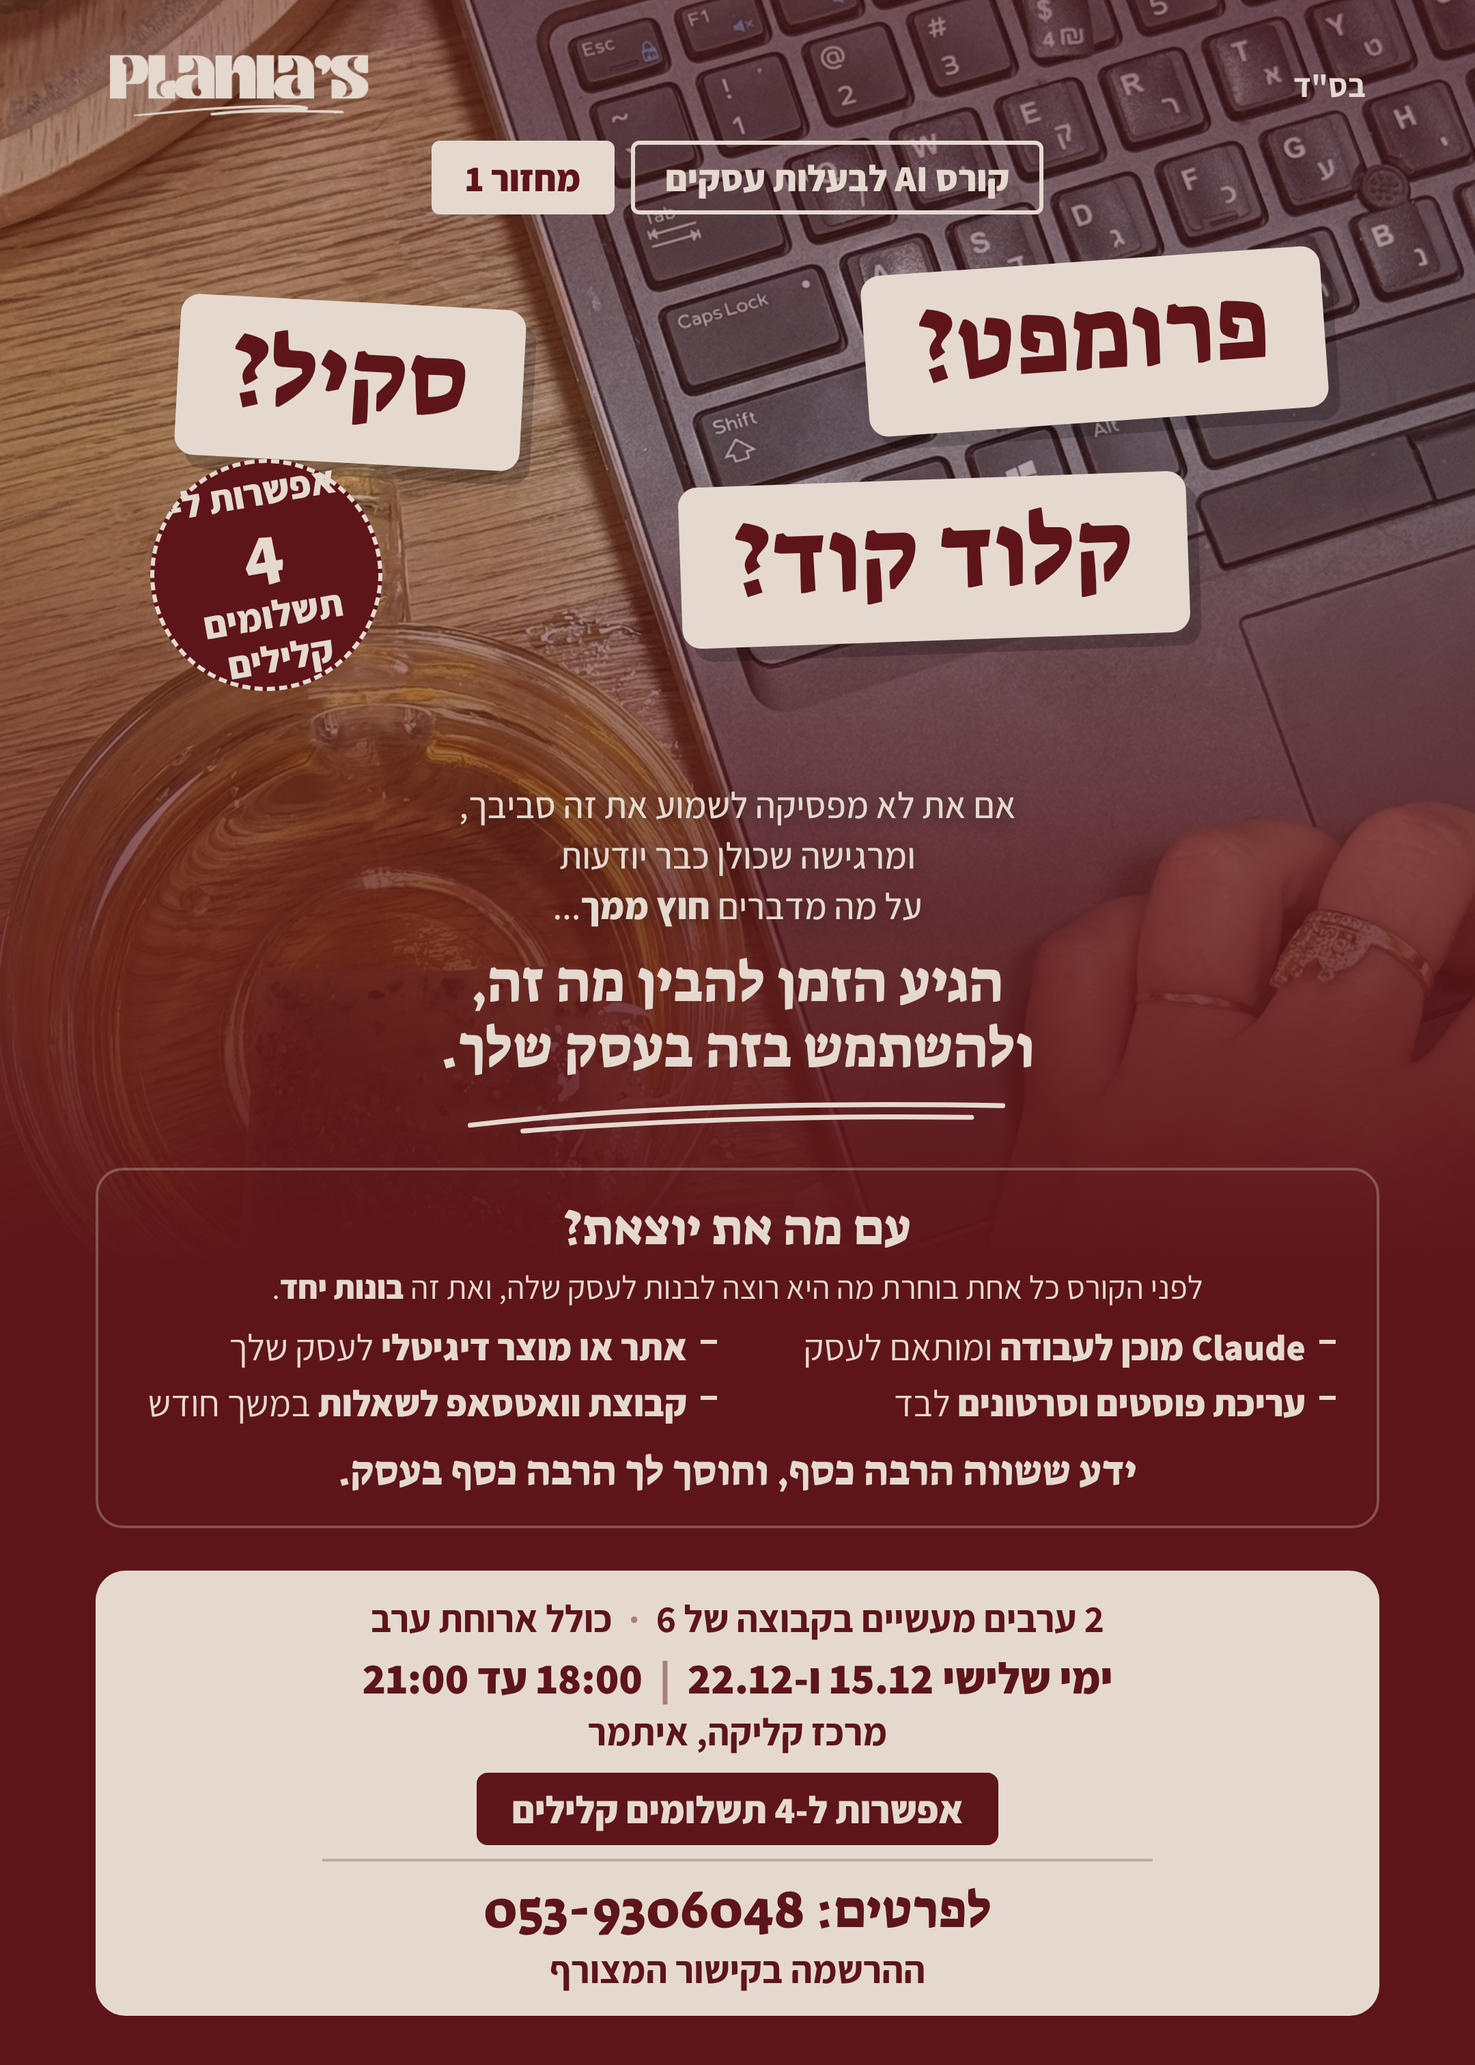
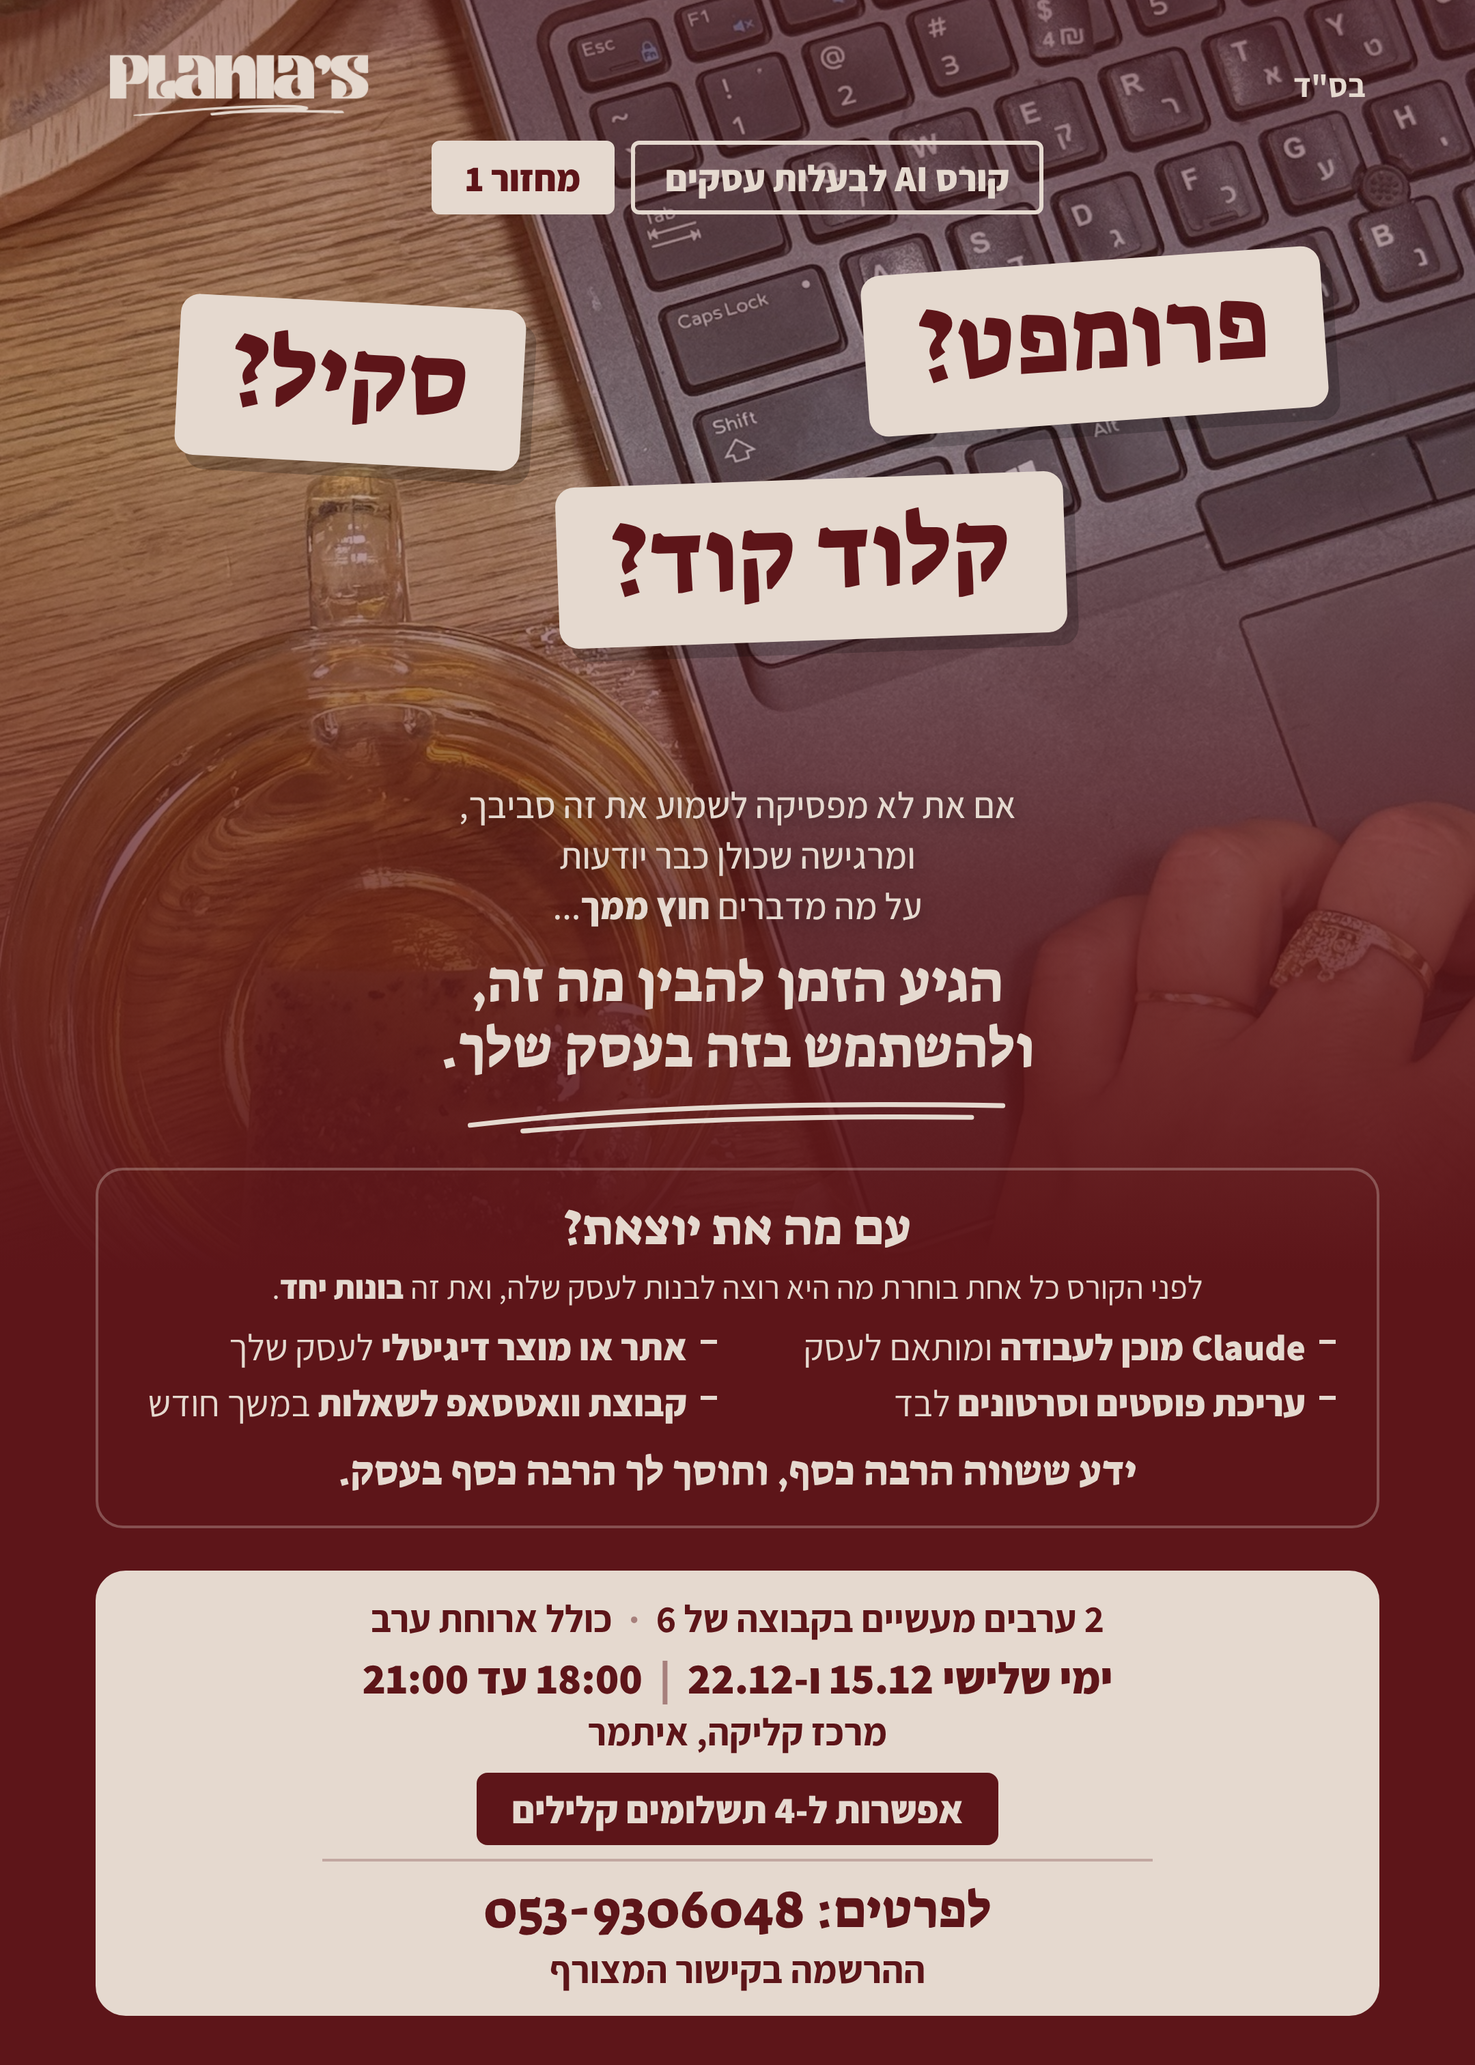
Buzzword flyer: drop payments seal, keep it in details box
Claude-Session: https://claude.ai/code/session_01FAztRn3s498VxUBgDg5pS8

Changed region(s): [[0.3722, 0.2176, 0.8065, 0.3419], [0.0931, 0.2176, 0.2792, 0.3419]]

diff --git a/marketing/course-ad/buzz-versions/b-polaroid.html b/marketing/course-ad/buzz-versions/b-polaroid.html
@@ -15,7 +15,7 @@ b{font-weight:800}
 .chip{position:absolute;font-family:'Suez One',serif;font-size:74px;line-height:1;background:var(--cream);color:var(--wine);padding:18px 40px 26px;border-radius:14px;box-shadow:8px 10px 0 rgba(0,0,0,.2)}
 .c1{right:110px;top:20px;transform:rotate(-4deg)}
 .c2{left:130px;top:50px;transform:rotate(3deg)}
-.c3{right:210px;top:180px;transform:rotate(-2deg)}
+.c3{right:300px;top:180px;transform:rotate(-2deg)}
 .seal{position:absolute;left:110px;top:165px;width:170px;height:170px;border-radius:50%;border:3px dashed var(--cream);background:var(--wine);display:flex;align-items:center;justify-content:center;transform:rotate(-10deg);font-weight:800;font-size:28px;line-height:1.15}
 .seal span{display:block;font-family:'Suez One',serif;font-size:50px;font-weight:400}
 .lead{font-size:27px;font-weight:500;line-height:1.38}
@@ -49,8 +49,7 @@ b{font-weight:800}
 .pol:before{content:"";position:absolute;top:-18px;left:110px;width:90px;height:34px;background:rgba(229,217,207,.75);transform:rotate(4deg)}
 .lead{font-size:28px}.big{font-size:44px}
 </style></head><body><section id="flyer"><div class="head"><span class="bsd">בס"ד</span><img class="logo" src="../logo-cream.png" alt="Plania's"></div>
-<div class="tags"><span class="tag">קורס AI לבעלות עסקים</span><span class="tag fill">מחזור 1</span></div><div class="words"><span class="chip c1">פרומפט?</span><span class="chip c2">סקיל?</span><span class="chip c3">קלוד קוד?</span>
-<div class="seal"><div>אפשרות ל-<span>4</span>תשלומים<br>קלילים</div></div></div><div class="mid"><div class="col"><p class="lead">אם את לא מפסיקה לשמוע את זה סביבך,<br>ומרגישה שכולן כבר יודעות<br>על מה מדברים <b>חוץ ממך</b>...</p>
+<div class="tags"><span class="tag">קורס AI לבעלות עסקים</span><span class="tag fill">מחזור 1</span></div><div class="words"><span class="chip c1">פרומפט?</span><span class="chip c2">סקיל?</span><span class="chip c3">קלוד קוד?</span></div><div class="mid"><div class="col"><p class="lead">אם את לא מפסיקה לשמוע את זה סביבך,<br>ומרגישה שכולן כבר יודעות<br>על מה מדברים <b>חוץ ממך</b>...</p>
 <p class="big">הגיע הזמן להבין מה זה,<br>ולהשתמש בזה בעסק שלך.</p><svg class="swoosh" viewBox="0 0 560 46"><path d="M6 34 C140 18 320 10 552 14 M60 40 C210 28 380 24 520 26" fill="none" stroke="currentColor" stroke-width="5" stroke-linecap="round"/></svg></div><div class="pol"><div class="ph"></div><div class="cap">ככה זה מתחיל</div></div></div><div class="value"><h3>עם מה את יוצאת?</h3>
 <p class="pre">לפני הקורס כל אחת בוחרת מה היא רוצה לבנות לעסק שלה, ואת זה <b>בונות יחד</b>.</p><ul>
 <li><b>Claude מוכן לעבודה</b> ומותאם לעסק</li>

diff --git a/marketing/course-ad/buzz-versions/d-circle.html b/marketing/course-ad/buzz-versions/d-circle.html
@@ -15,7 +15,7 @@ b{font-weight:800}
 .chip{position:absolute;font-family:'Suez One',serif;font-size:74px;line-height:1;background:var(--cream);color:var(--wine);padding:18px 40px 26px;border-radius:14px;box-shadow:8px 10px 0 rgba(0,0,0,.2)}
 .c1{right:110px;top:20px;transform:rotate(-4deg)}
 .c2{left:130px;top:50px;transform:rotate(3deg)}
-.c3{right:210px;top:180px;transform:rotate(-2deg)}
+.c3{right:300px;top:180px;transform:rotate(-2deg)}
 .seal{position:absolute;left:110px;top:165px;width:170px;height:170px;border-radius:50%;border:3px dashed var(--cream);background:var(--wine);display:flex;align-items:center;justify-content:center;transform:rotate(-10deg);font-weight:800;font-size:28px;line-height:1.15}
 .seal span{display:block;font-family:'Suez One',serif;font-size:50px;font-weight:400}
 .lead{font-size:27px;font-weight:500;line-height:1.38}
@@ -48,8 +48,7 @@ b{font-weight:800}
 .circ:before{content:"";position:absolute;inset:-22px;border-radius:50%;border:3px dashed var(--cream);opacity:.7}
 .lead{font-size:28px}.big{font-size:44px}
 </style></head><body><section id="flyer"><div class="head"><span class="bsd">בס"ד</span><img class="logo" src="../logo-cream.png" alt="Plania's"></div>
-<div class="tags"><span class="tag">קורס AI לבעלות עסקים</span><span class="tag fill">מחזור 1</span></div><div class="words"><span class="chip c1">פרומפט?</span><span class="chip c2">סקיל?</span><span class="chip c3">קלוד קוד?</span>
-<div class="seal"><div>אפשרות ל-<span>4</span>תשלומים<br>קלילים</div></div></div><div class="mid"><div class="col"><p class="lead">אם את לא מפסיקה לשמוע את זה סביבך,<br>ומרגישה שכולן כבר יודעות<br>על מה מדברים <b>חוץ ממך</b>...</p>
+<div class="tags"><span class="tag">קורס AI לבעלות עסקים</span><span class="tag fill">מחזור 1</span></div><div class="words"><span class="chip c1">פרומפט?</span><span class="chip c2">סקיל?</span><span class="chip c3">קלוד קוד?</span></div><div class="mid"><div class="col"><p class="lead">אם את לא מפסיקה לשמוע את זה סביבך,<br>ומרגישה שכולן כבר יודעות<br>על מה מדברים <b>חוץ ממך</b>...</p>
 <p class="big">הגיע הזמן להבין מה זה,<br>ולהשתמש בזה בעסק שלך.</p><svg class="swoosh" viewBox="0 0 560 46"><path d="M6 34 C140 18 320 10 552 14 M60 40 C210 28 380 24 520 26" fill="none" stroke="currentColor" stroke-width="5" stroke-linecap="round"/></svg></div><div class="circ"><div class="ph"></div></div></div><div class="value"><h3>עם מה את יוצאת?</h3>
 <p class="pre">לפני הקורס כל אחת בוחרת מה היא רוצה לבנות לעסק שלה, ואת זה <b>בונות יחד</b>.</p><ul>
 <li><b>Claude מוכן לעבודה</b> ומותאם לעסק</li>

diff --git a/marketing/course-ad/buzz-versions/c-side-strip.html b/marketing/course-ad/buzz-versions/c-side-strip.html
@@ -15,7 +15,7 @@ b{font-weight:800}
 .chip{position:absolute;font-family:'Suez One',serif;font-size:74px;line-height:1;background:var(--cream);color:var(--wine);padding:18px 40px 26px;border-radius:14px;box-shadow:8px 10px 0 rgba(0,0,0,.2)}
 .c1{right:110px;top:20px;transform:rotate(-4deg)}
 .c2{left:130px;top:50px;transform:rotate(3deg)}
-.c3{right:210px;top:180px;transform:rotate(-2deg)}
+.c3{right:300px;top:180px;transform:rotate(-2deg)}
 .seal{position:absolute;left:110px;top:165px;width:170px;height:170px;border-radius:50%;border:3px dashed var(--cream);background:var(--wine);display:flex;align-items:center;justify-content:center;transform:rotate(-10deg);font-weight:800;font-size:28px;line-height:1.15}
 .seal span{display:block;font-family:'Suez One',serif;font-size:50px;font-weight:400}
 .lead{font-size:27px;font-weight:500;line-height:1.38}
@@ -55,8 +55,7 @@ b{font-weight:800}
 .box{margin:auto 40px 44px 0;padding:20px 26px}
 .box .when{font-size:28px}.box .meta{font-size:25px}.box .reg{font-size:34px}.pay{font-size:24px}
 </style></head><body><section id="flyer"><div class="strip"></div><div class="main"><div class="head"><span class="bsd">בס"ד</span><img class="logo" src="../logo-cream.png" alt="Plania's"></div>
-<div class="tags"><span class="tag">קורס AI לבעלות עסקים</span><span class="tag fill">מחזור 1</span></div><div class="words"><span class="chip c1">פרומפט?</span><span class="chip c2">סקיל?</span><span class="chip c3">קלוד קוד?</span>
-<div class="seal"><div>אפשרות ל-<span>4</span>תשלומים<br>קלילים</div></div></div><div class="txt"><p class="lead">אם את לא מפסיקה לשמוע את זה סביבך,<br>ומרגישה שכולן כבר יודעות<br>על מה מדברים <b>חוץ ממך</b>...</p>
+<div class="tags"><span class="tag">קורס AI לבעלות עסקים</span><span class="tag fill">מחזור 1</span></div><div class="words"><span class="chip c1">פרומפט?</span><span class="chip c2">סקיל?</span><span class="chip c3">קלוד קוד?</span></div><div class="txt"><p class="lead">אם את לא מפסיקה לשמוע את זה סביבך,<br>ומרגישה שכולן כבר יודעות<br>על מה מדברים <b>חוץ ממך</b>...</p>
 <p class="big">הגיע הזמן להבין מה זה,<br>ולהשתמש בזה בעסק שלך.</p><svg class="swoosh" viewBox="0 0 560 46"><path d="M6 34 C140 18 320 10 552 14 M60 40 C210 28 380 24 520 26" fill="none" stroke="currentColor" stroke-width="5" stroke-linecap="round"/></svg></div><div class="value"><h3>עם מה את יוצאת?</h3>
 <p class="pre">לפני הקורס כל אחת בוחרת מה היא רוצה לבנות לעסק שלה, ואת זה <b>בונות יחד</b>.</p><ul>
 <li><b>Claude מוכן לעבודה</b> ומותאם לעסק</li>

diff --git a/marketing/course-ad/buzz-versions/a-full-bleed.html b/marketing/course-ad/buzz-versions/a-full-bleed.html
@@ -15,7 +15,7 @@ b{font-weight:800}
 .chip{position:absolute;font-family:'Suez One',serif;font-size:74px;line-height:1;background:var(--cream);color:var(--wine);padding:18px 40px 26px;border-radius:14px;box-shadow:8px 10px 0 rgba(0,0,0,.2)}
 .c1{right:110px;top:20px;transform:rotate(-4deg)}
 .c2{left:130px;top:50px;transform:rotate(3deg)}
-.c3{right:210px;top:180px;transform:rotate(-2deg)}
+.c3{right:300px;top:180px;transform:rotate(-2deg)}
 .seal{position:absolute;left:110px;top:165px;width:170px;height:170px;border-radius:50%;border:3px dashed var(--cream);background:var(--wine);display:flex;align-items:center;justify-content:center;transform:rotate(-10deg);font-weight:800;font-size:28px;line-height:1.15}
 .seal span{display:block;font-family:'Suez One',serif;font-size:50px;font-weight:400}
 .lead{font-size:27px;font-weight:500;line-height:1.38}
@@ -46,8 +46,7 @@ b{font-weight:800}
 .txt{position:relative;z-index:2;margin-top:70px;padding:0 90px}
 .txt .lead{text-shadow:0 2px 12px rgba(0,0,0,.35)}
 </style></head><body><section id="flyer"><div class="bg"></div><div class="head"><span class="bsd">בס"ד</span><img class="logo" src="../logo-cream.png" alt="Plania's"></div>
-<div class="tags"><span class="tag">קורס AI לבעלות עסקים</span><span class="tag fill">מחזור 1</span></div><div class="words"><span class="chip c1">פרומפט?</span><span class="chip c2">סקיל?</span><span class="chip c3">קלוד קוד?</span>
-<div class="seal"><div>אפשרות ל-<span>4</span>תשלומים<br>קלילים</div></div></div><div class="txt"><p class="lead">אם את לא מפסיקה לשמוע את זה סביבך,<br>ומרגישה שכולן כבר יודעות<br>על מה מדברים <b>חוץ ממך</b>...</p>
+<div class="tags"><span class="tag">קורס AI לבעלות עסקים</span><span class="tag fill">מחזור 1</span></div><div class="words"><span class="chip c1">פרומפט?</span><span class="chip c2">סקיל?</span><span class="chip c3">קלוד קוד?</span></div><div class="txt"><p class="lead">אם את לא מפסיקה לשמוע את זה סביבך,<br>ומרגישה שכולן כבר יודעות<br>על מה מדברים <b>חוץ ממך</b>...</p>
 <p class="big">הגיע הזמן להבין מה זה,<br>ולהשתמש בזה בעסק שלך.</p><svg class="swoosh" viewBox="0 0 560 46"><path d="M6 34 C140 18 320 10 552 14 M60 40 C210 28 380 24 520 26" fill="none" stroke="currentColor" stroke-width="5" stroke-linecap="round"/></svg></div><div class="value"><h3>עם מה את יוצאת?</h3>
 <p class="pre">לפני הקורס כל אחת בוחרת מה היא רוצה לבנות לעסק שלה, ואת זה <b>בונות יחד</b>.</p><ul>
 <li><b>Claude מוכן לעבודה</b> ומותאם לעסק</li>

diff --git a/marketing/course-ad/buzz-versions/generate.py b/marketing/course-ad/buzz-versions/generate.py
@@ -17,7 +17,7 @@ b{font-weight:800}
 .chip{position:absolute;font-family:'Suez One',serif;font-size:74px;line-height:1;background:var(--cream);color:var(--wine);padding:18px 40px 26px;border-radius:14px;box-shadow:8px 10px 0 rgba(0,0,0,.2)}
 .c1{right:110px;top:20px;transform:rotate(-4deg)}
 .c2{left:130px;top:50px;transform:rotate(3deg)}
-.c3{right:210px;top:180px;transform:rotate(-2deg)}
+.c3{right:300px;top:180px;transform:rotate(-2deg)}
 .seal{position:absolute;left:110px;top:165px;width:170px;height:170px;border-radius:50%;border:3px dashed var(--cream);background:var(--wine);display:flex;align-items:center;justify-content:center;transform:rotate(-10deg);font-weight:800;font-size:28px;line-height:1.15}
 .seal span{display:block;font-family:'Suez One',serif;font-size:50px;font-weight:400}
 .lead{font-size:27px;font-weight:500;line-height:1.38}
@@ -45,8 +45,7 @@ b{font-weight:800}
 '''
 HEAD='''<div class="head"><span class="bsd">בס"ד</span><img class="logo" src="../logo-cream.png" alt="Plania's"></div>
 <div class="tags"><span class="tag">קורס AI לבעלות עסקים</span><span class="tag fill">מחזור 1</span></div>'''
-WORDS='''<div class="words"><span class="chip c1">פרומפט?</span><span class="chip c2">סקיל?</span><span class="chip c3">קלוד קוד?</span>
-<div class="seal"><div>אפשרות ל-<span>4</span>תשלומים<br>קלילים</div></div></div>'''
+WORDS='''<div class="words"><span class="chip c1">פרומפט?</span><span class="chip c2">סקיל?</span><span class="chip c3">קלוד קוד?</span></div>'''
 SW='<svg class="swoosh" viewBox="0 0 560 46"><path d="M6 34 C140 18 320 10 552 14 M60 40 C210 28 380 24 520 26" fill="none" stroke="currentColor" stroke-width="5" stroke-linecap="round"/></svg>'
 TEXT='''<p class="lead">אם את לא מפסיקה לשמוע את זה סביבך,<br>ומרגישה שכולן כבר יודעות<br>על מה מדברים <b>חוץ ממך</b>...</p>
 <p class="big">הגיע הזמן להבין מה זה,<br>ולהשתמש בזה בעסק שלך.</p>'''+SW
